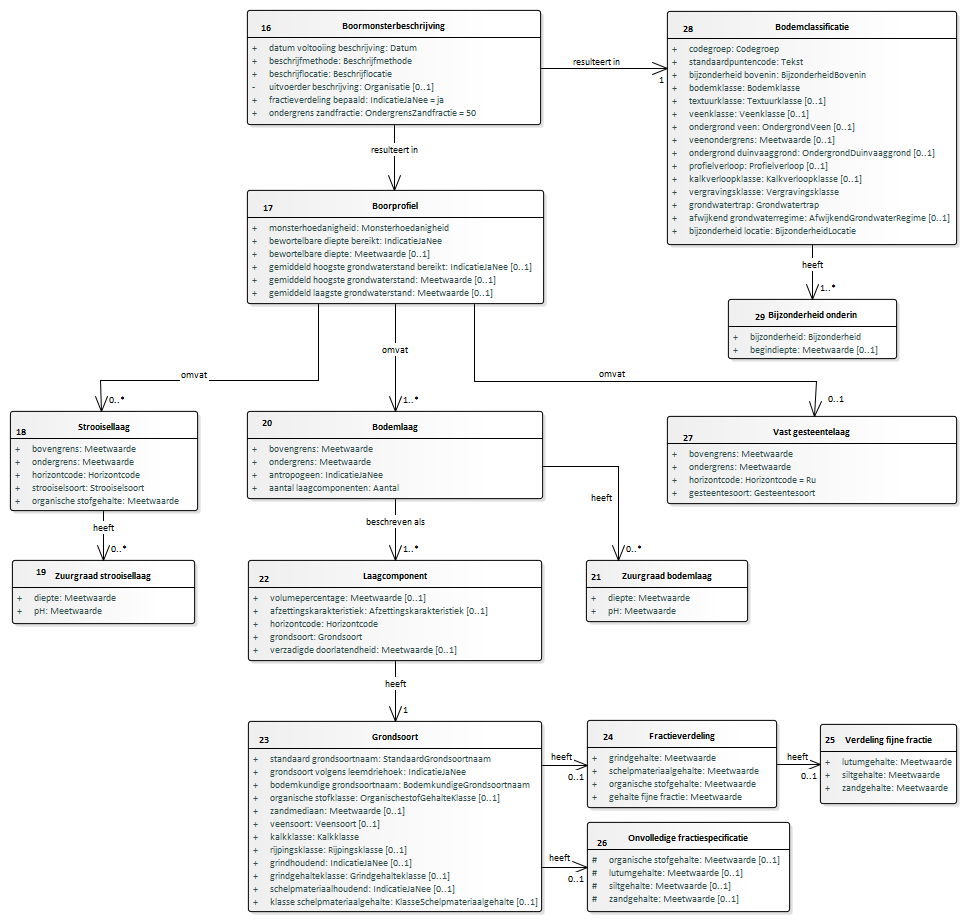
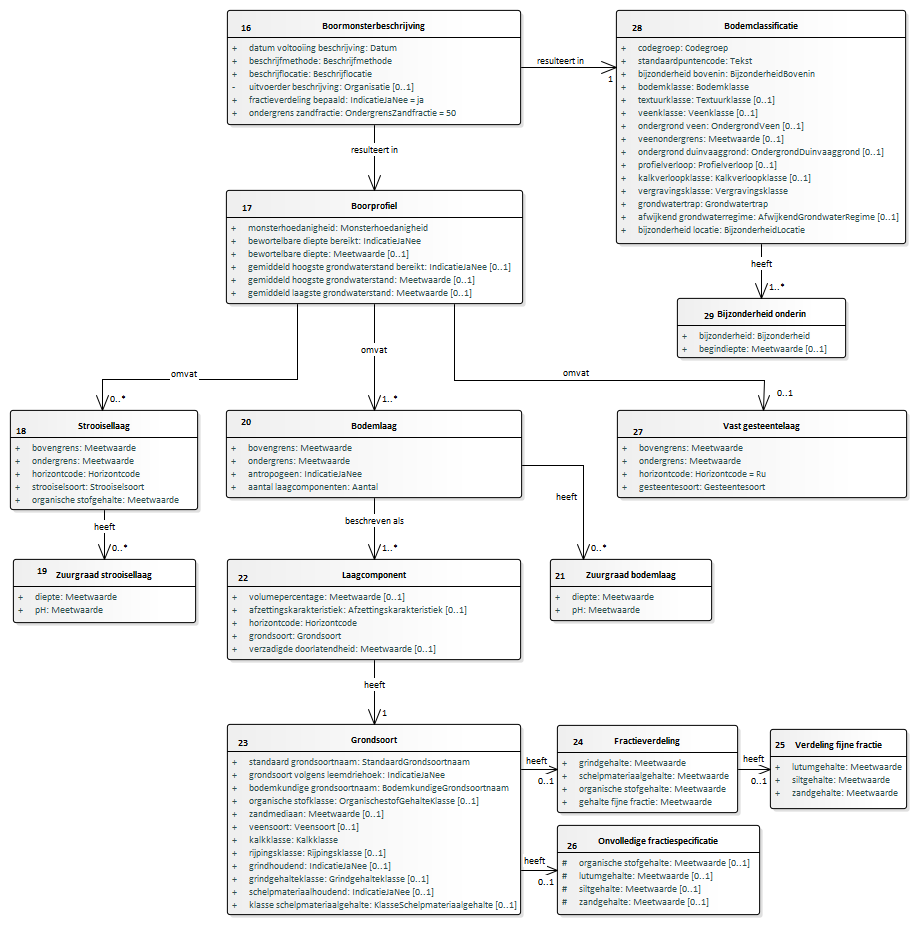
Conceptualmodel-BHR-Pconceptueel-MIM-1.9127november2019-1-20200214-20200304-150618

Changed region(s): [[0.0, 0.0, 1.0, 1.0], [0.3969, 0.3644, 0.4275, 0.3948]]

diff --git a/data/BHR-P-cat.msword.html b/data/BHR-P-cat.msword.html
@@ -13,7 +13,7 @@
    <body>
       <p>Conceptual model/BHR-P conceptueel - MIM/20200214</p>
       <p>Imvertor: 1.59.2</p>
-      <p>Model release: Conceptualmodel-BHR-Pconceptueel-MIM-1.9127november2019-1-20200214-20200304-143609</p>
+      <p>Model release: Conceptualmodel-BHR-Pconceptueel-MIM-1.9127november2019-1-20200214-20200304-150618</p>
       <hr>
       <section>
          <h1>Artikel 1 Definitie van registratieobject, entiteiten en attributen</h1>
@@ -70,20 +70,20 @@
             <h2>Het domeinmodel</h2>
             <section id="">
                <div class="imageinfo overview"><img src="Images/EAID_1C3500F1_E5BB_47e3_9CE1_BB98873D797A.png" usemap="#imagemap-EAID_1C3500F1_E5BB_47e3_9CE1_BB98873D797A" alt="Diagram "><map name="imagemap-EAID_1C3500F1_E5BB_47e3_9CE1_BB98873D797A">
-                     <area shape="rect" alt="Bodemclassificatie" coords="667,11,957,245" href="#graph_EAID_CFE14268_F08B_4a20_BB74_3FEA8BBA0438">
-                     <area shape="rect" alt="Zuurgraad bodemlaag" coords="586,560,748,622" href="#graph_EAID_20864613_7F9B_4610_9180_7A919D60C45B">
-                     <area shape="rect" alt="Verdeling fijne fractie" coords="820,724,957,804" href="#graph_EAID_60B04447_7B86_410e_B20F_D3CD115886D1">
-                     <area shape="rect" alt="Onvolledige fractiespecificatie" coords="587,822,790,912" href="#graph_EAID_2882FB1B_C7C2_467c_AEBB_238330EEBFC0">
-                     <area shape="rect" alt="Fractieverdeling" coords="587,720,777,808" href="#graph_EAID_EF53B14C_3668_4ef9_934A_1FD39F3E0662">
-                     <area shape="rect" alt="Grondsoort" coords="248,721,542,912" href="#graph_EAID_6335A71B_82D0_48a7_B08B_E14E5233FFFC">
-                     <area shape="rect" alt="Laagcomponent" coords="248,560,542,661" href="#graph_EAID_972B648E_F4A1_4a70_92B9_3383A5DB7706">
-                     <area shape="rect" alt="Vast gesteentelaag" coords="667,416,957,504" href="#graph_EAID_53169F7B_05E8_438f_A558_2A98EA6E3BDE">
-                     <area shape="rect" alt="Bodemlaag" coords="247,411,543,499" href="#graph_EAID_BAEFD725_0B6B_4084_AB08_BC42F75343BC">
-                     <area shape="rect" alt="Bijzonderheid onderin" coords="728,299,897,359" href="#graph_EAID_4B2108B5_2549_4222_B1C3_253785E10046">
-                     <area shape="rect" alt="Strooisellaag" coords="10,411,198,511" href="#graph_EAID_53792607_43A9_402c_BCFF_E9A10589D199">
-                     <area shape="rect" alt="Boorprofiel" coords="247,190,544,304" href="#graph_EAID_E066634E_A30B_4f31_9447_9ADBF0419CB4">
-                     <area shape="rect" alt="Boormonsterbeschrijving" coords="247,10,541,125" href="#graph_EAID_697C344A_A1CE_4e19_A1E8_D608CAB8F0B2">
-                     <area shape="rect" alt="Zuurgraad strooisellaag" coords="12,560,195,624" href="#graph_EAID_50D04CCB_A0D6_4ec1_85EB_B23EC6D99A02"></map><p><b>Domeinmodel BRO Bodemkundige boormonsterbeschrijving</b></p>
+                     <area shape="rect" alt="Bodemclassificatie" coords="616,10,906,244" href="#graph_EAID_CFE14268_F08B_4a20_BB74_3FEA8BBA0438">
+                     <area shape="rect" alt="Zuurgraad bodemlaag" coords="550,559,712,621" href="#graph_EAID_20864613_7F9B_4610_9180_7A919D60C45B">
+                     <area shape="rect" alt="Verdeling fijne fractie" coords="770,729,907,809" href="#graph_EAID_60B04447_7B86_410e_B20F_D3CD115886D1">
+                     <area shape="rect" alt="Onvolledige fractiespecificatie" coords="557,825,760,915" href="#graph_EAID_2882FB1B_C7C2_467c_AEBB_238330EEBFC0">
+                     <area shape="rect" alt="Fractieverdeling" coords="557,725,738,813" href="#graph_EAID_EF53B14C_3668_4ef9_934A_1FD39F3E0662">
+                     <area shape="rect" alt="Grondsoort" coords="227,724,521,915" href="#graph_EAID_6335A71B_82D0_48a7_B08B_E14E5233FFFC">
+                     <area shape="rect" alt="Laagcomponent" coords="227,559,521,660" href="#graph_EAID_972B648E_F4A1_4a70_92B9_3383A5DB7706">
+                     <area shape="rect" alt="Vast gesteentelaag" coords="617,410,907,498" href="#graph_EAID_53169F7B_05E8_438f_A558_2A98EA6E3BDE">
+                     <area shape="rect" alt="Bodemlaag" coords="226,410,522,498" href="#graph_EAID_BAEFD725_0B6B_4084_AB08_BC42F75343BC">
+                     <area shape="rect" alt="Bijzonderheid onderin" coords="677,298,846,358" href="#graph_EAID_4B2108B5_2549_4222_B1C3_253785E10046">
+                     <area shape="rect" alt="Strooisellaag" coords="10,410,198,510" href="#graph_EAID_53792607_43A9_402c_BCFF_E9A10589D199">
+                     <area shape="rect" alt="Boorprofiel" coords="226,190,523,304" href="#graph_EAID_E066634E_A30B_4f31_9447_9ADBF0419CB4">
+                     <area shape="rect" alt="Boormonsterbeschrijving" coords="227,10,521,125" href="#graph_EAID_697C344A_A1CE_4e19_A1E8_D608CAB8F0B2">
+                     <area shape="rect" alt="Zuurgraad strooisellaag" coords="13,559,196,623" href="#graph_EAID_50D04CCB_A0D6_4ec1_85EB_B23EC6D99A02"></map><p><b>Domeinmodel BRO Bodemkundige boormonsterbeschrijving</b></p>
                </div>
                <div class="imageinfo overview"><img src="Images/EAID_6383BFB7_B0C0_44d9_9C7F_929703659479.png" usemap="#imagemap-EAID_6383BFB7_B0C0_44d9_9C7F_929703659479" alt="Diagram "><map name="imagemap-EAID_6383BFB7_B0C0_44d9_9C7F_929703659479">
                      <area shape="rect" alt="Bepaling waterretentie stapsgewijs" coords="12,733,253,964" href="#graph_EAID_41CDAA8E_37BA_4dbe_843B_C18C720DC286">
@@ -96,23 +96,23 @@
                      <area shape="rect" alt="Onderzocht interval" coords="255,180,481,308" href="#graph_EAID_E03DABD7_D5A7_43b1_8E45_22FE722A3256"></map><p><b>Bodemkundige boormonsteranalyse deel 1</b></p>
                </div>
                <div class="imageinfo overview"><img src="Images/EAID_D6588CC3_0108_4b72_8419_F2C7022F9A9E.png" usemap="#imagemap-EAID_D6588CC3_0108_4b72_8419_F2C7022F9A9E" alt="Diagram "><map name="imagemap-EAID_D6588CC3_0108_4b72_8419_F2C7022F9A9E">
-                     <area shape="rect" alt="Gestandaardiseerde locatie" coords="651,447,950,522" href="#graph_EAID_4D17BE34_0DFD_4a20_9A39_F437E781D80F">
-                     <area shape="rect" alt="Aangeleverde verticale positie" coords="651,291,950,418" href="#graph_EAID_5B6EEAEE_FAAF_4ab9_9D33_709559A9E297">
-                     <area shape="rect" alt="Aangeleverde locatie" coords="651,172,950,273" href="#graph_EAID_C81072B6_E99D_435f_9E4C_B1D5FED530D4">
-                     <area shape="rect" alt="Geboord traject" coords="715,1000,951,1062" href="#graph_EAID_BCE4FB50_EC8B_4ebc_BA2F_AED708915459">
-                     <area shape="rect" alt="Verwijderde laag" coords="715,873,951,948" href="#graph_EAID_4F931859_A209_48c8_95B4_EF48947342D4">
-                     <area shape="rect" alt="Verwijderd traject" coords="715,763,951,825" href="#graph_EAID_9CAAE4E0_1030_4145_8BA6_E7E82C1A81D3">
-                     <area shape="rect" alt="Boorprocedure" coords="715,698,951,747" href="#graph_EAID_BC5BEC9E_1CD9_400e_931D_D3328E315CAA">
-                     <area shape="rect" alt="Terreintoestand" coords="691,551,951,639" href="#graph_EAID_AF1FFED2_C283_48d3_BB6D_22F3F876045D">
-                     <area shape="rect" alt="Geboord interval" coords="366,1000,557,1062" href="#graph_EAID_7A51F6B2_4675_47d0_849C_BCE1853C65CF">
-                     <area shape="rect" alt="Boorapparaat" coords="366,878,557,944" href="#graph_EAID_F4D931C9_4668_4a29_94E7_347B9C7D4AFC">
-                     <area shape="rect" alt="Boring" coords="325,698,599,825" href="#graph_EAID_EEB4A074_34DE_4020_8995_D8081DCBBB6C">
-                     <area shape="rect" alt="Tussentijdse gebeurtenis" coords="72,566,271,623" href="#graph_EAID_648ED0D8_FACD_42e6_9C8A_648C6F5E0DA8">
-                     <area shape="rect" alt="Rapportagegeschiedenis" coords="74,469,273,528" href="#graph_EAID_6C31CE0B_20BC_4ca1_9BFA_C6D0EF8B7476">
-                     <area shape="rect" alt="Boormonsterbeschrijving" coords="20,59,280,126" href="#graph_EAID_697C344A_A1CE_4e19_A1E8_D608CAB8F0B2">
-                     <area shape="rect" alt="Registratiegeschiedenis" coords="15,247,275,439" href="#graph_EAID_8505883D_9F95_4151_9381_E70B2B7F19DE">
-                     <area shape="rect" alt="Boormonsteranalyse" coords="19,139,281,202" href="#graph_EAID_C497D0C8_A7FC_4280_82C3_3C866CAA23AB">
-                     <area shape="rect" alt="Booronderzoek" coords="323,172,594,365" href="#graph_EAID_767F438F_1014_47bc_BBDC_98606932693D"></map><p><b>Domeinmodel BRO Booronderzoek</b></p>
+                     <area shape="rect" alt="Gestandaardiseerde locatie" coords="624,448,923,523" href="#graph_EAID_4D17BE34_0DFD_4a20_9A39_F437E781D80F">
+                     <area shape="rect" alt="Aangeleverde verticale positie" coords="624,290,923,417" href="#graph_EAID_5B6EEAEE_FAAF_4ab9_9D33_709559A9E297">
+                     <area shape="rect" alt="Aangeleverde locatie" coords="624,174,923,275" href="#graph_EAID_C81072B6_E99D_435f_9E4C_B1D5FED530D4">
+                     <area shape="rect" alt="Geboord traject" coords="687,1000,923,1062" href="#graph_EAID_BCE4FB50_EC8B_4ebc_BA2F_AED708915459">
+                     <area shape="rect" alt="Verwijderde laag" coords="687,875,923,950" href="#graph_EAID_4F931859_A209_48c8_95B4_EF48947342D4">
+                     <area shape="rect" alt="Verwijderd traject" coords="687,763,923,825" href="#graph_EAID_9CAAE4E0_1030_4145_8BA6_E7E82C1A81D3">
+                     <area shape="rect" alt="Boorprocedure" coords="687,698,923,747" href="#graph_EAID_BC5BEC9E_1CD9_400e_931D_D3328E315CAA">
+                     <area shape="rect" alt="Terreintoestand" coords="663,553,923,641" href="#graph_EAID_AF1FFED2_C283_48d3_BB6D_22F3F876045D">
+                     <area shape="rect" alt="Geboord interval" coords="344,1002,535,1064" href="#graph_EAID_7A51F6B2_4675_47d0_849C_BCE1853C65CF">
+                     <area shape="rect" alt="Boorapparaat" coords="344,879,535,945" href="#graph_EAID_F4D931C9_4668_4a29_94E7_347B9C7D4AFC">
+                     <area shape="rect" alt="Boring" coords="303,698,577,825" href="#graph_EAID_EEB4A074_34DE_4020_8995_D8081DCBBB6C">
+                     <area shape="rect" alt="Tussentijdse gebeurtenis" coords="68,566,257,623" href="#graph_EAID_648ED0D8_FACD_42e6_9C8A_648C6F5E0DA8">
+                     <area shape="rect" alt="Rapportagegeschiedenis" coords="68,469,257,528" href="#graph_EAID_6C31CE0B_20BC_4ca1_9BFA_C6D0EF8B7476">
+                     <area shape="rect" alt="Boormonsterbeschrijving" coords="12,59,257,126" href="#graph_EAID_697C344A_A1CE_4e19_A1E8_D608CAB8F0B2">
+                     <area shape="rect" alt="Registratiegeschiedenis" coords="12,247,254,439" href="#graph_EAID_8505883D_9F95_4151_9381_E70B2B7F19DE">
+                     <area shape="rect" alt="Boormonsteranalyse" coords="12,139,257,202" href="#graph_EAID_C497D0C8_A7FC_4280_82C3_3C866CAA23AB">
+                     <area shape="rect" alt="Booronderzoek" coords="299,174,570,367" href="#graph_EAID_767F438F_1014_47bc_BBDC_98606932693D"></map><p><b>Domeinmodel BRO Booronderzoek</b></p>
                </div>
             </section>
          </section>
